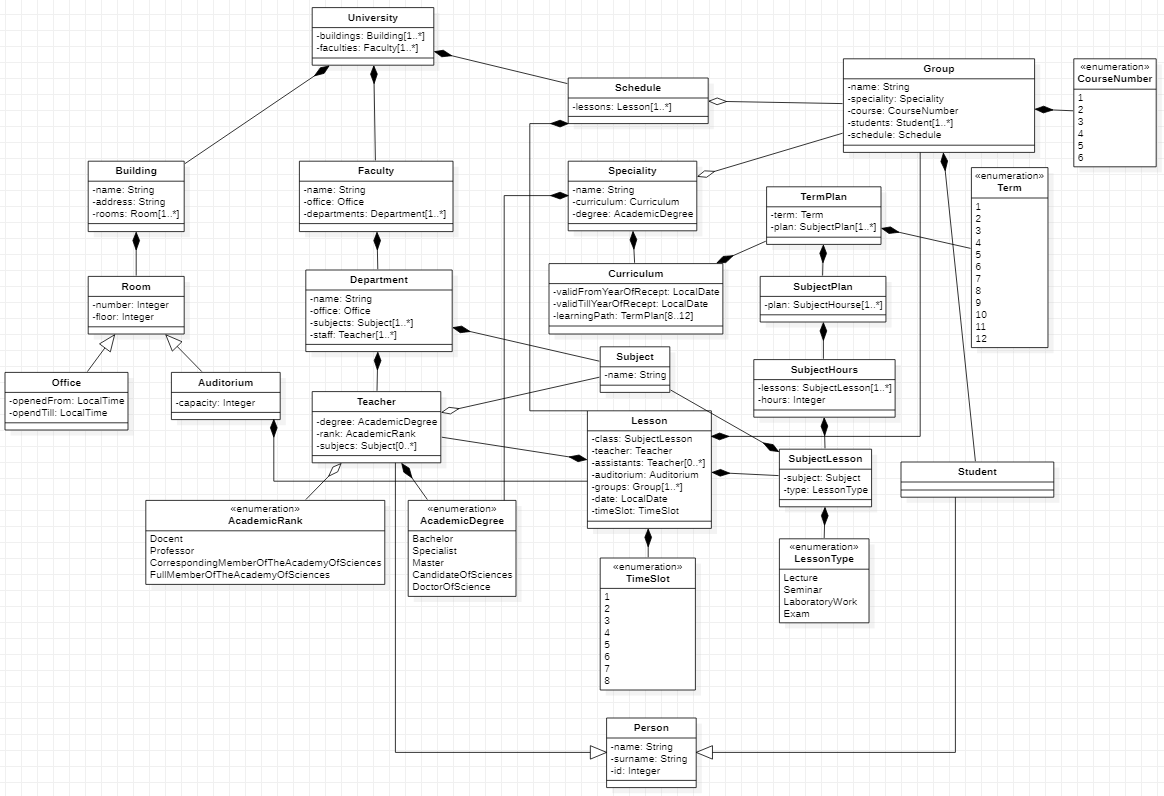
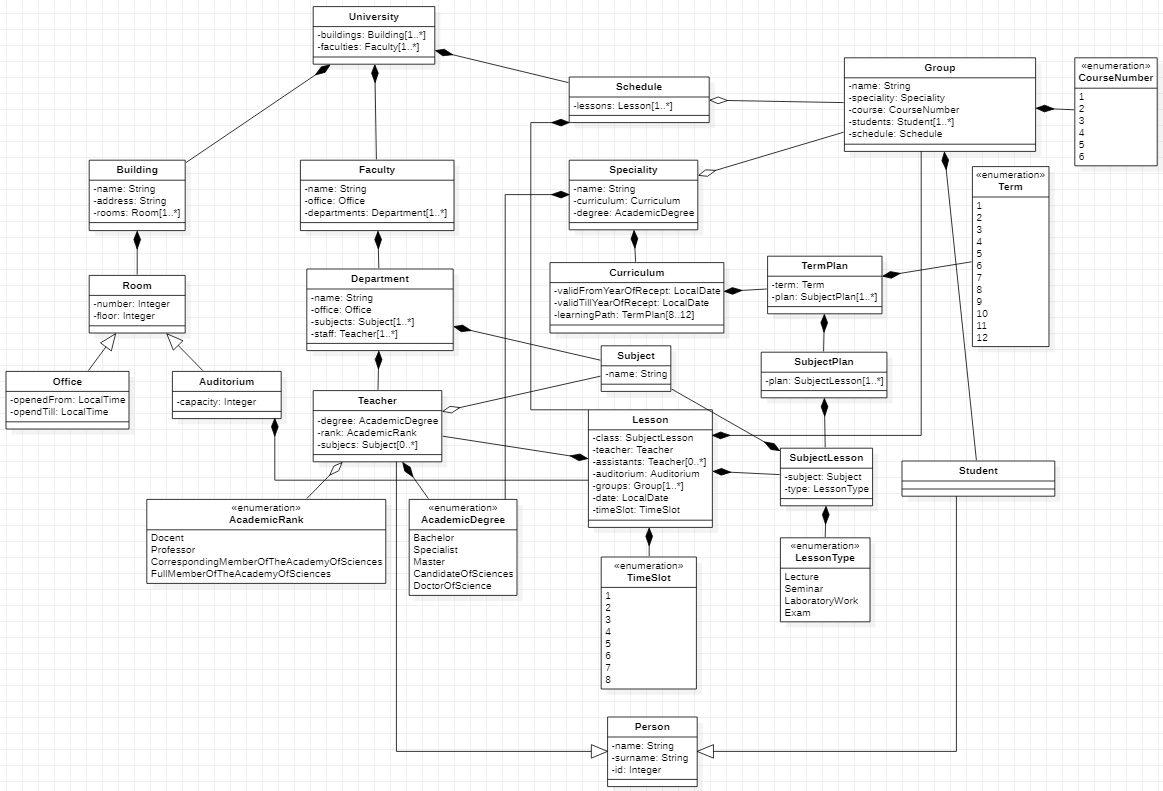
update schema; remove add/delete methods from classes

diff --git a/src/main/java/com/rumakin/universityschedule/models/Department.java b/src/main/java/com/rumakin/universityschedule/models/Department.java
@@ -6,23 +6,24 @@ public class Department {
 
     private String name;
     private Office office;
-    private Set<Subject> subjects = new HashSet<>();
-    private Set<Teacher> staff = new HashSet<>();
+    private Set<Subject> subjects;
+    private Set<Teacher> staff;
 
     public Department(String name, Office office) {
         this.name = name;
         this.office = office;
+        this.subjects = new HashSet<>();
+        this.staff = new HashSet<>();
     }
 
     public Department(String name, Office office, Set<Subject> subjects) {
-        super();
         this.name = name;
         this.office = office;
         this.subjects = subjects;
+        this.staff = new HashSet<>();
     }
 
     public Department(String name, Office office, Set<Subject> subjects, Set<Teacher> staff) {
-        super();
         this.name = name;
         this.office = office;
         this.subjects = subjects;
@@ -39,26 +40,6 @@ public class Department {
 
     public void setStaff(Set<Teacher> staff) {
         this.staff = staff;
-    }
-
-    public void addSubject(Subject subject) {
-        subjects.add(subject);
-    }
-
-    public void deleteSubject(Subject subject) {
-        if (subjects.contains(subject)) {
-            subjects.remove(subject);
-        }
-    }
-
-    public void addTeacher(Teacher teacher) {
-        staff.add(teacher);
-    }
-
-    public void deleteTeacher(Teacher teacher) {
-        if (staff.contains(teacher)) {
-            staff.remove(teacher);
-        }
     }
 
     public String getName() {

diff --git a/src/main/java/com/rumakin/universityschedule/models/Group.java b/src/main/java/com/rumakin/universityschedule/models/Group.java
@@ -7,13 +7,14 @@ public class Group {
     private final String name;
     private final Speciality speciality;
     private final CourseNumber course;
-    private List<Student> students = new ArrayList<>();
+    private List<Student> students;
     private Schedule schedule;
 
     public Group(String name, Speciality speciality, CourseNumber course) {
         this.name = name;
         this.speciality = speciality;
         this.course = course;
+        this.students = new ArrayList<>();
     }
 
     public Group(String name, Speciality speciality, CourseNumber course, List<Student> students) {
@@ -33,22 +34,6 @@ public class Group {
 
     public void setSchedule(Schedule schedule) {
         this.schedule = schedule;
-    }
-
-    public void addStudent(Student student) {
-        if (student == null) {
-            throw new IllegalArgumentException("Input sudent can't be null");
-        }
-        students.add(student);
-    }
-
-    public void deleteStudent(Student student) {
-        if (student == null) {
-            throw new IllegalArgumentException("Input sudent can't be null");
-        }
-        if (students.contains(student)) {
-            students.remove(student);
-        }
     }
 
     public String getName() {

diff --git a/src/main/java/com/rumakin/universityschedule/models/Curriculum.java b/src/main/java/com/rumakin/universityschedule/models/Curriculum.java
@@ -7,11 +7,12 @@ public class Curriculum {
 
     private final LocalDate validFromYearOfRecept;
     private LocalDate validTillYearOfRecept;
-    private Set<TermPlan> learningPath = new HashSet<>();
+    private Set<TermPlan> learningPath;
 
     public Curriculum(LocalDate validFromYearOfRecept, Set<TermPlan> learningPath) {
         this.validFromYearOfRecept = validFromYearOfRecept;
         this.learningPath = learningPath;
+        this.learningPath = new HashSet<>();
     }
 
     public Curriculum(LocalDate validFromYearOfRecept, LocalDate validTillYearOfRecept, Set<TermPlan> learningPath) {
@@ -22,16 +23,6 @@ public class Curriculum {
 
     public void setValidTillYearOfRecept(LocalDate validTillYearOfRecept) {
         this.validTillYearOfRecept = validTillYearOfRecept;
-    }
-
-    public void addTermPlan(TermPlan termPlan) {
-        learningPath.add(termPlan);
-    }
-
-    public void deleteTermPlan(TermPlan termPlan) {
-        if (learningPath.contains(termPlan)) {
-            learningPath.remove(termPlan);
-        }
     }
 
     public LocalDate getValidFromYearOfRecept() {

diff --git a/src/main/java/com/rumakin/universityschedule/models/Lesson.java b/src/main/java/com/rumakin/universityschedule/models/Lesson.java
@@ -7,9 +7,9 @@ public class Lesson {
 
     private final SubjectLesson subjectLesson;
     private Teacher teacher;
-    private Set<Teacher> assistants = new HashSet<>();
+    private Set<Teacher> assistants;
     private Auditorium auditorium;
-    private Set<Group> groups = new HashSet<>();
+    private Set<Group> groups;
     private LocalDate date;
     private TimeSlot timeSlot;
 
@@ -22,26 +22,6 @@ public class Lesson {
         this.groups = groups;
         this.date = date;
         this.timeSlot = timeSlot;
-    }
-
-    public void addAssistant(Teacher teacher) {
-        if (!this.teacher.equals(teacher)) {
-            assistants.add(teacher);
-        }
-    }
-
-    public void removeAssistant(Teacher teacher) {
-        if (assistants.contains(teacher)) {
-            assistants.remove(teacher);
-        }
-    }
-
-    public void addGroup(Group group) {
-        groups.add(group);
-    }
-
-    public void removeGroup(Group group) {
-        groups.remove(group);
     }
 
     public void setTeacher(Teacher teacher) {

diff --git a/src/main/java/com/rumakin/universityschedule/models/University.java b/src/main/java/com/rumakin/universityschedule/models/University.java
@@ -4,33 +4,12 @@ import java.util.*;
 
 public class University {
 
-    private Set<Building> buildings = new HashSet<>();
-    private Set<Faculty> faculties = new HashSet<>();
-    // temporary - here must be methods to get schedule by date for student/teacher
+    private Set<Building> buildings;
+    private Set<Faculty> faculties;
 
     public University(Set<Building> buildings, Set<Faculty> faculties) {
         this.buildings = buildings;
         this.faculties = faculties;
-    }
-
-    public void addBuilding(Building building) {
-        buildings.add(building);
-    }
-
-    public void deleteBuilding(Building building) {
-        if (buildings.contains(building)) {
-            buildings.remove(building);
-        }
-    }
-
-    public void addFaculty(Faculty faculty) {
-        faculties.add(faculty);
-    }
-
-    public void deleteFaculty(Faculty faculty) {
-        if (faculties.contains(faculty)) {
-            faculties.remove(faculty);
-        }
     }
 
     public Set<Building> getBuildings() {

diff --git a/src/main/java/com/rumakin/universityschedule/models/Faculty.java b/src/main/java/com/rumakin/universityschedule/models/Faculty.java
@@ -6,11 +6,12 @@ public class Faculty {
 
     private String name;
     private Office office;
-    private Set<Department> departments = new HashSet<>();
+    private Set<Department> departments;
 
     public Faculty(String name, Office office) {
         this.name = name;
         this.office = office;
+        this.departments = new HashSet<>();
     }
 
     public Faculty(String name, Office office, Set<Department> departments) {
@@ -25,16 +26,6 @@ public class Faculty {
 
     public void setDepartments(Set<Department> departments) {
         this.departments = departments;
-    }
-
-    public void addDepartment(Department department) {
-        departments.add(department);
-    }
-
-    public void deleteDepartment(Department department) {
-        if (departments.contains(department)) {
-            departments.remove(department);
-        }
     }
 
     public String getName() {

diff --git a/src/main/java/com/rumakin/universityschedule/models/Building.java b/src/main/java/com/rumakin/universityschedule/models/Building.java
@@ -6,11 +6,12 @@ public class Building {
 
     private String name;
     private String address;
-    private Set<Room> rooms = new HashSet<>();
+    private Set<Room> rooms;
 
     public Building(String name, String address) {
         this.name = name;
         this.address = address;
+        this.rooms = new HashSet<>();
     }
 
     public void setName(String name) {
@@ -23,16 +24,6 @@ public class Building {
 
     public void setRooms(Set<Room> rooms) {
         this.rooms = rooms;
-    }
-
-    public void addRoom(Room room) {
-        rooms.add(room);
-    }
-
-    public void deleteRoom(Room room) {
-        if (rooms.contains(room)) {
-            rooms.remove(room);
-        }
     }
 
     public String getName() {

diff --git a/src/main/java/com/rumakin/universityschedule/models/SubjectPlan.java b/src/main/java/com/rumakin/universityschedule/models/SubjectPlan.java
@@ -4,13 +4,13 @@ import java.util.*;
 
 public class SubjectPlan {
 
-    private List<SubjectHours> plan = new ArrayList<>();
+    private List<SubjectLesson> plan;
 
-    public SubjectPlan(List<SubjectHours> subjectHours) {
+    public SubjectPlan(List<SubjectLesson> subjectHours) {
         this.plan = subjectHours;
     }
 
-    public List<SubjectHours> getPlan() {
+    public List<SubjectLesson> getPlan() {
         return plan;
     }
 

diff --git a/src/main/java/com/rumakin/universityschedule/models/TermPlan.java b/src/main/java/com/rumakin/universityschedule/models/TermPlan.java
@@ -5,7 +5,7 @@ import java.util.*;
 public class TermPlan {
 
     private final Term term;
-    private List<SubjectPlan> subjectPlans = new ArrayList<>();
+    private List<SubjectPlan> subjectPlans;
 
     public TermPlan(Term term, List<SubjectPlan> subjectPlan) {
         this.term = term;

diff --git a/src/main/java/com/rumakin/universityschedule/models/Schedule.java b/src/main/java/com/rumakin/universityschedule/models/Schedule.java
@@ -4,7 +4,7 @@ import java.util.*;
 
 public class Schedule {
 
-    private List<Lesson> lessons = new ArrayList<>();
+    private List<Lesson> lessons;
 
     public Schedule(List<Lesson> lessons) {
         this.lessons = lessons;
